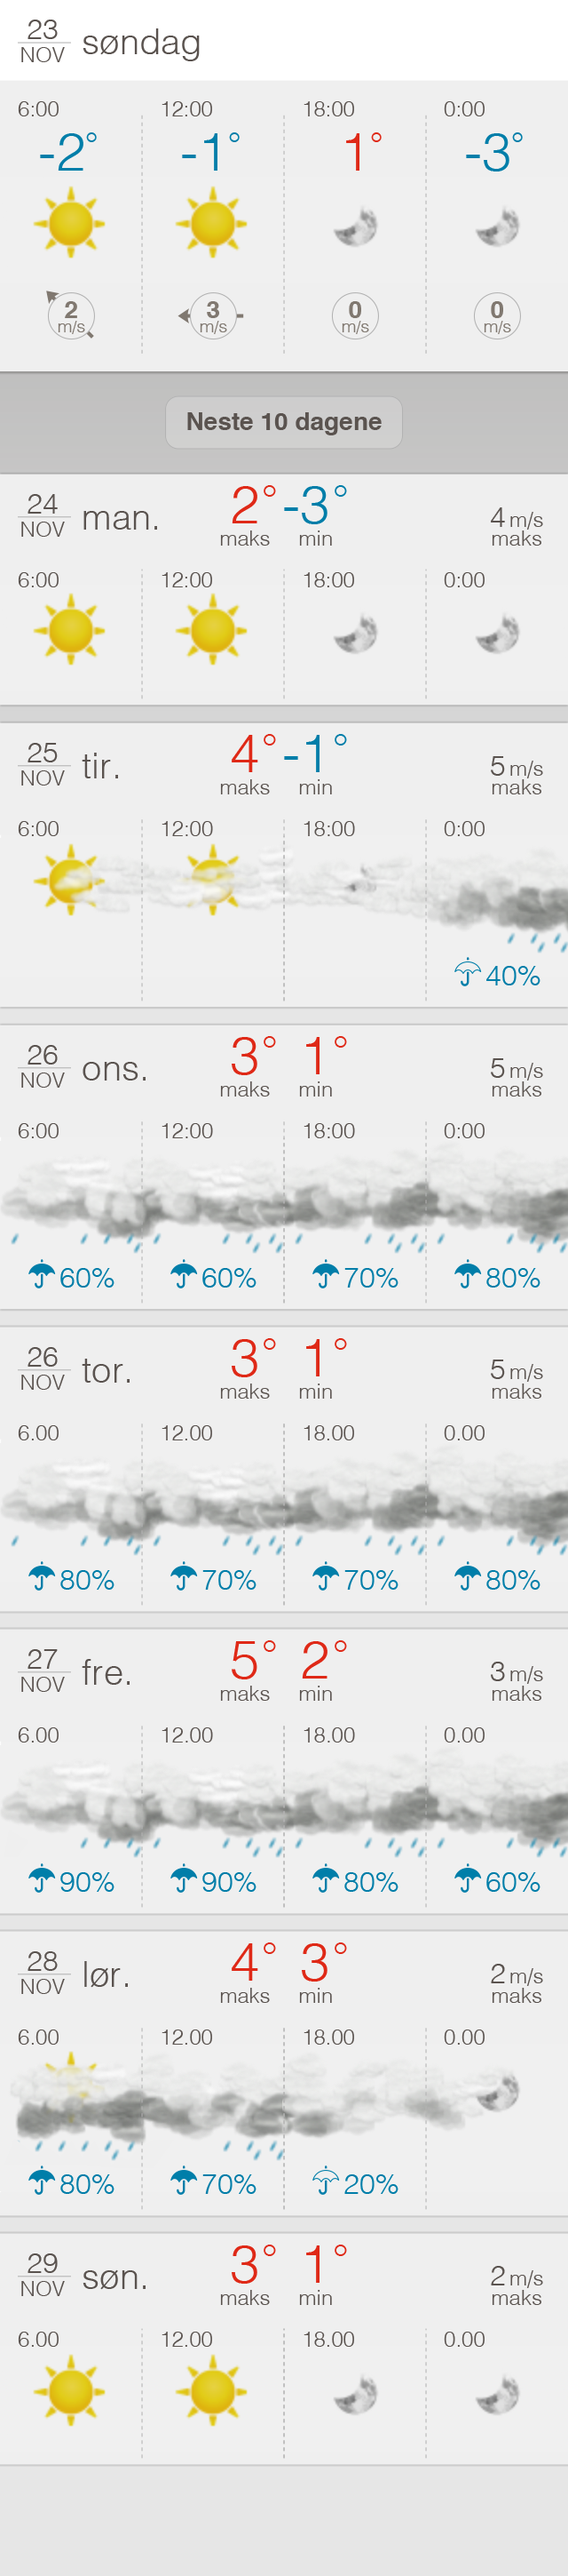
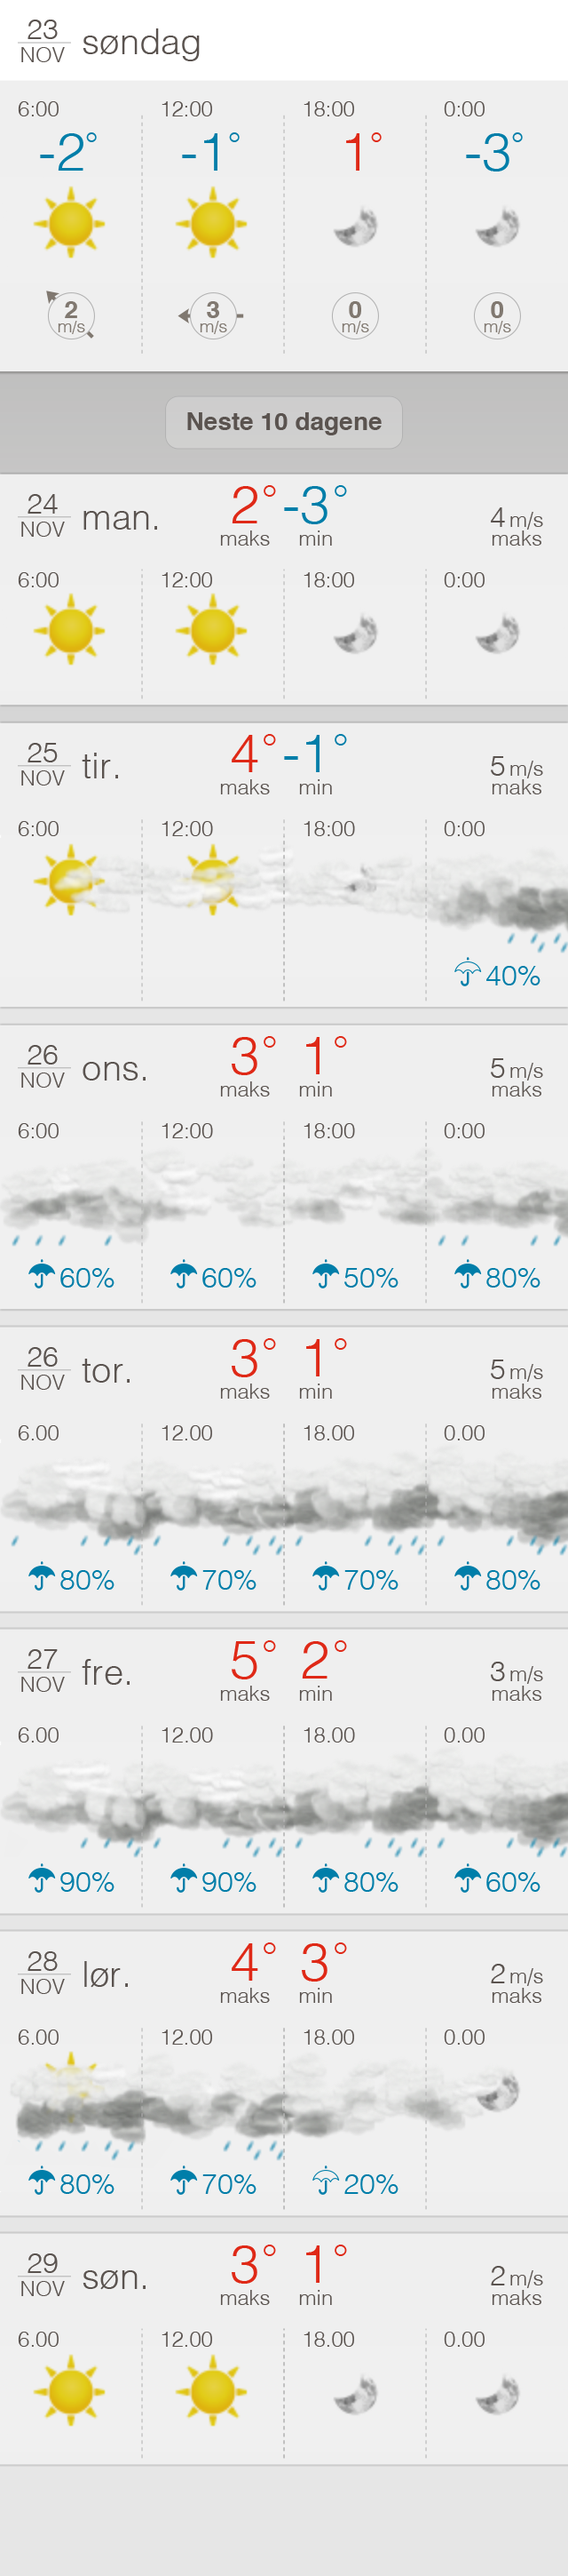
Changes to sketches

Changed region(s): [[0.0625, 0.4346, 1.0, 0.4967]]

diff --git a/symbols/symbolgeneration.html b/symbols/symbolgeneration.html
@@ -170,6 +170,44 @@
 						"dewPoint":		[0,0,0,0,0,0]
 					}
 				}
+				var jsonData5 = {
+					"morning":{
+						"mainsymbol":	-1,
+						"symbols":		[0,0,0,0,0,0],
+						"density":		[30,40,30,60,70,60],
+						"probability":	[50,60,50,60,50,60],
+						"rainMin":		[0,0,0,0,0,0],
+						"rainMax":		[1,1.2,0.1,0,0.2,0],
+						"dewPoint":		[0,0,0,0,0,0]
+					},
+					"afternoon":{
+						"mainsymbol":	-1,
+						"symbols":		[0,0,0,0,0,0],
+						"density":		[10,15,10,10,15,10],
+						"probability":	[10,0,0,10,0,0],
+						"rainMin":		[0,0,0,0,0,0],
+						"rainMax":		[0,0,0,0,0,0],
+						"dewPoint":		[0,0,0,0,0,0]
+					},
+					"evening":{
+						"mainsymbol":	-1,
+						"symbols":		[0,0,0,0,0,0],
+						"density":		[10,15,10,10,15,10],
+						"probability":	[10,10,0,10,10,10],
+						"rainMin":		[0,0,0,0,0,0],
+						"rainMax":		[0,0,0,0,0,0],
+						"dewPoint":		[0,0,0,0,0,0]
+					},
+					"night":{
+						"mainsymbol":	-1,
+						"symbols":		[0,0,0,0,0,0],
+						"density":		[30,40,30,60,70,60],
+						"probability":	[40,60,50,60,70,80],
+						"rainMin":		[0,0,0,0,0,0],
+						"rainMax":		[0.3,0.6,0,0,2,2],
+						"dewPoint":		[0,0,0,0,0,0]
+					}
+				}
 				
 				var json = jsonData1;
 				
@@ -183,6 +221,7 @@
 				var RainImageFile = "images/raindropV3.png";
 				var SunImageFile = "images/sun_full.png";
 				var MoonImageFile = "images/moon_full.png";
+				var NoSymbol = "images/no_symbol.png";
 				
 				var kyz = "";
 				var cloudImage;
@@ -425,7 +464,9 @@
 					}
 					if(SymbolType == 0){
 						symbolImage.src = MoonImageFile;
-					} else {
+					} else if(SymbolType == -1){
+						symbolImage.src = NoSymbol;
+					}  else {
 						symbolImage.src = SunImageFile;
 					}
 				}
@@ -477,7 +518,7 @@
 					if(ContainerWidth <= 320){ ContainerWidth = 320; }
 					calculateWidths(json);
 				};
-				var dataSources = [jsonData1,jsonData2,jsonData3,jsonData4];
+				var dataSources = [jsonData1,jsonData2,jsonData3,jsonData4,jsonData5];
 				var dataSourceInc = 0;
 				document.getElementById("dataswap").onclick=function(){
 					json = dataSources[dataSourceInc];
